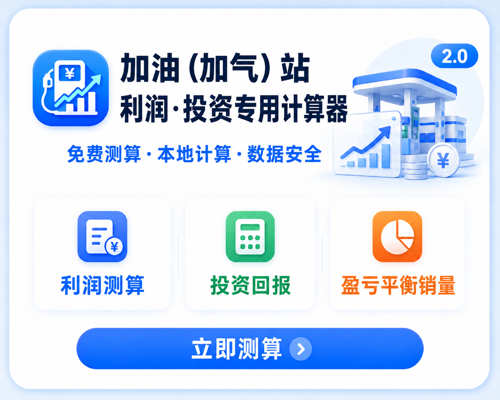
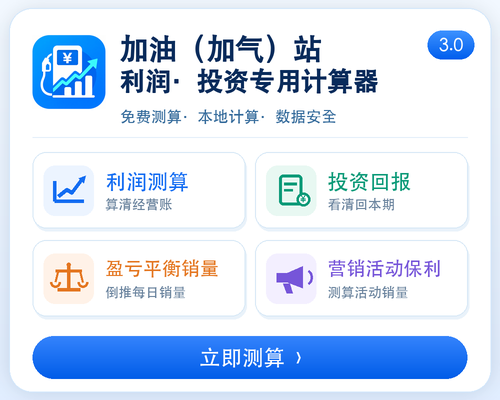
feat: 升级至 3.0.0 四板块并更新分享封面

diff --git a/lib/investment.js b/lib/investment.js
@@ -1,4 +1,4 @@
-const { number } = require('./operating');
+const { number, VERSION } = require('./operating');
 const { npv, irr, payback, loanSchedule } = require('./finance');
 // Keep existing indices stable for saved plans; append the new rental mode.
 const MODES = ['固定租金', '长租短付', '动态租金（业主分红）', '固定管理费', '长租长付'];
@@ -154,7 +154,7 @@ function calculate(input) {
   if (terminalDebt > 0) warnings.push('预测期短于贷款期，期末现金流已计入剩余本金偿还 ' + terminalDebt.toFixed(2) + ' 元。');
   if (form.mode === 2) warnings.push('租金（业主分红）按支付前税前利润的正数计算，已作为动态租金扣除一次；按合同租金可税前列支测算，不作为股东分配再次扣除。');
   if (projectFlows.some((x, i) => i > 0 && x < 0)) warnings.push('部分月份现金净流出，不等于实际资金不足；支付能力还需结合流动资金、留存回款和实际付款安排判断。首次回本后累计现金流仍可能再次转负。');
-  return { type: 'investment', version: '2.0.0', time: new Date().toISOString(), form, modeName: form.selfOwned ? '自有站经营' : MODES[form.mode],
+  return { type: 'investment', version: VERSION, time: new Date().toISOString(), form, modeName: form.selfOwned ? '自有站经营' : MODES[form.mode],
     initial, workingCapital, workingCapitalRecovery: workingCapital, equity, ownShare, ownInitial: equity * ownShare, partnerInitial: equity * (1 - ownShare),
     initialRent: rentals.paid[0], terminalDebt, rows, averages, projectFlows, shareholderFlows,
     project: metrics(projectFlows, Number(form.discountRate)), shareholder: metrics(shareholderFlows, Number(form.discountRate)), warnings };

diff --git a/lib/storage.js b/lib/storage.js
@@ -12,15 +12,16 @@ function migrateBreakEvenDraft() {
   }
 }
 function id() { return Date.now() + '-' + Math.random().toString(36).slice(2, 8); }
-function record(form, wageMode, periodKey, stationName) { return { id: id(), version: '2.0.0', createdAt: new Date().toISOString(), form: operating.cleanForm(form), wageMode, periodKey, stationName: stationName || '' }; }
+function record(form, wageMode, periodKey, stationName) { return { id: id(), version: operating.VERSION, createdAt: new Date().toISOString(), form: operating.cleanForm(form), wageMode, periodKey, stationName: stationName || '' }; }
 function add(key, value, limit) { write(key, [value, ...list(key)].slice(0, limit)); }
 function defaults() { return read(KEYS.defaults, null) || read(KEYS.oldDefaults, null); }
 function source(record, kind) {
   if (!record || !record.form) throw new Error('这条记录缺少经营数据');
   const result = operating.calculate(record.form, record.wageMode || 'people', record.periodKey || 'year');
+  const legacy = record.version !== '2.0.0' && record.version !== operating.VERSION;
   return { id: record.id, kind, name: record.stationName || '未命名站点', createdAt: record.createdAt,
     periodKey: record.periodKey || 'year', annualEbitda: result.annualEbitda,
-    version: '2.0.0', legacy: record.version !== '2.0.0', input: record,
-    legacyInvestment: record.version !== '2.0.0' ? Number(record.form.totalInvestment) || 0 : 0 };
+    version: operating.VERSION, legacy, input: record,
+    legacyInvestment: legacy ? Number(record.form.totalInvestment) || 0 : 0 };
 }
 module.exports = { KEYS, read, list, write, migrateBreakEvenDraft, id, record, add, defaults, source };

diff --git a/lib/report-layout.js b/lib/report-layout.js
@@ -1,4 +1,5 @@
 const brand = require('./brand');
+const { VERSION } = require('./operating');
 const BLUE = '#004b8d', INK = '#17324a', MUTED = '#63798d', RED = '#c93643';
 function wrap(text, measure, width) {
   const lines = []; let line = '';
@@ -119,7 +120,7 @@ function layout(report, measure) {
   y += Math.max(nameHeight + 2, sloganHeight) + 13;
   y += text(brand.welcome, 140, y, 570, 23, MUTED);
   y = Math.max(y, footer + 82) + 27;
-  y += text((report.type === 'break-even' ? '盈亏平衡销量计算器' : '加油（加气）站利润计算器') + ' · v2.0.0', 40, y, 670, 21, MUTED);
+  y += text((report.type === 'break-even' ? '盈亏平衡销量计算器' : '加油（加气）站利润计算器') + ' · v' + (report.version || VERSION), 40, y, 670, 21, MUTED);
   return { width: 750, height: Math.ceil(y + 40), items };
 }
 function dimensions(plan, maxHeight = 16000) {

diff --git a/lib/marketing-report.js b/lib/marketing-report.js
@@ -105,7 +105,7 @@ function paint(ctx, result, form, previewFactor) {
   });
   ctx.fillStyle = MUTED; ctx.font = '18px sans-serif';
   wrap(ctx, '口径：原销量按参与比例参加活动；新增销量按各品种原销量同比增加，参加对应活动。采购单价不变。油品按升、LNG 按公斤分别计算，不直接相加。', 42, 1605, 666, 27);
-  ctx.font = '17px sans-serif'; ctx.fillText('加油（加气）站利润·投资专用计算器 · 本地测算', 42, 1755);
+  ctx.font = '17px sans-serif'; ctx.fillText('加油（加气）站利润·投资专用计算器 · v3.0 · 本地测算', 42, 1755);
   return { width, height };
 }
 module.exports = { chart, paint, amounts, fmt };

diff --git a/lib/ui.js b/lib/ui.js
@@ -18,7 +18,7 @@ function shareImage() {
   try {
     // 分享弹窗在部分开发者工具版本中无法直接读取代码包图片，使用本地副本。
     // 每次覆盖同一文件，保证换图后不会继续分享旧缓存，也不累积文件。
-    const target = wx.env.USER_DATA_PATH + '/share-card-v2.png';
+    const target = wx.env.USER_DATA_PATH + '/share-card-v3.png';
     wx.getFileSystemManager().copyFileSync(source, target);
     return target;
   } catch (e) {

diff --git a/pages/home/home.js b/pages/home/home.js
@@ -1,5 +1,5 @@
 const ui = require('../../lib/ui');
-Page({ data: { version: '2.0.0' }, onLoad: ui.menu,
+Page({ data: { version: '3.0.0' }, onLoad: ui.menu,
   open(e) { wx.navigateTo({ url: '/pages/' + e.currentTarget.dataset.page }); },
   onShareAppMessage: ui.share, onShareTimeline() { return { title: '加油站经营利润与投资回报测算' }; }
 });

diff --git a/lib/operating.js b/lib/operating.js
@@ -1,4 +1,4 @@
-const VERSION = '2.0.0';
+const VERSION = '3.0.0';
 function initialForm() {
   return {
     vol92: 0, vol95: 0, volDiesel: 0, hasLng: false, volLng: 0,

diff --git a/app.js b/app.js
@@ -1,6 +1,6 @@
 App({
   globalData: {
     appName: "加油（加气）站经营与投资测算",
-    appVersion: "2.0.0"
+    appVersion: "3.0.0"
   }
 });

diff --git a/scripts/render_share_card.py b/scripts/render_share_card.py
@@ -1,0 +1,131 @@
+"""Render the mini-program's 5:4 WeChat share card with exact Chinese labels.
+
+Requires Pillow. Run from any directory: python3 scripts/render_share_card.py
+"""
+
+from pathlib import Path
+from PIL import Image, ImageDraw, ImageFilter, ImageFont
+
+
+ROOT = Path(__file__).resolve().parents[1]
+OUT = ROOT / "images/share-card-5x4.png"
+LOGO = ROOT / "images/miniprogram-profit-icon-512.png"
+FONT = "/System/Library/Fonts/STHeiti Medium.ttc"
+SIZE = (1000, 800)
+
+
+def font(size):
+    return ImageFont.truetype(FONT, size)
+
+
+def centered(draw, box, label, face, fill):
+    left, top, right, bottom = box
+    bounds = draw.textbbox((0, 0), label, font=face)
+    width = bounds[2] - bounds[0]
+    height = bounds[3] - bounds[1]
+    draw.text(((left + right - width) / 2 - bounds[0],
+               (top + bottom - height) / 2 - bounds[1]), label,
+              font=face, fill=fill)
+
+
+def rounded_gradient(image, box, top_color, bottom_color, radius):
+    left, top, right, bottom = box
+    width, height = right - left, bottom - top
+    layer = Image.new("RGB", (width, height))
+    pixels = layer.load()
+    for y in range(height):
+        weight = y / max(height - 1, 1)
+        color = tuple(round(a * (1 - weight) + b * weight)
+                      for a, b in zip(top_color, bottom_color))
+        for x in range(width):
+            pixels[x, y] = color
+    mask = Image.new("L", (width, height))
+    ImageDraw.Draw(mask).rounded_rectangle((0, 0, width - 1, height - 1), radius, fill=255)
+    image.paste(layer, (left, top), mask)
+
+
+def profit_icon(draw, x, y, color):
+    draw.line([(x + 18, y + 68), (x + 18, y + 28)], fill=color, width=7)
+    draw.line([(x + 18, y + 68), (x + 76, y + 68)], fill=color, width=7)
+    draw.line([(x + 26, y + 58), (x + 42, y + 45), (x + 53, y + 51), (x + 74, y + 23)], fill=color, width=8, joint="curve")
+    draw.polygon([(x + 66, y + 22), (x + 80, y + 17), (x + 76, y + 32)], fill=color)
+
+
+def investment_icon(draw, x, y, color):
+    draw.rounded_rectangle((x + 22, y + 15, x + 68, y + 76), 8, outline=color, width=6)
+    draw.line((x + 32, y + 33, x + 57, y + 33), fill=color, width=6)
+    draw.line((x + 32, y + 46, x + 49, y + 46), fill=color, width=5)
+    draw.ellipse((x + 57, y + 51, x + 84, y + 78), fill="white", outline=color, width=5)
+    centered(draw, (x + 58, y + 52, x + 83, y + 78), "¥", font(23), color)
+
+
+def balance_icon(draw, x, y, color):
+    draw.line((x + 46, y + 20, x + 46, y + 68), fill=color, width=7)
+    draw.line((x + 24, y + 69, x + 69, y + 69), fill=color, width=7)
+    draw.line((x + 20, y + 31, x + 72, y + 31), fill=color, width=6)
+    draw.ellipse((x + 42, y + 15, x + 50, y + 23), fill=color)
+    draw.line((x + 25, y + 31, x + 19, y + 54), fill=color, width=4)
+    draw.line((x + 68, y + 31, x + 74, y + 54), fill=color, width=4)
+    draw.arc((x + 9, y + 43, x + 30, y + 65), 0, 180, fill=color, width=5)
+    draw.arc((x + 64, y + 43, x + 85, y + 65), 0, 180, fill=color, width=5)
+
+
+def marketing_icon(draw, x, y, color):
+    draw.polygon([(x + 17, y + 36), (x + 37, y + 36), (x + 69, y + 22),
+                  (x + 69, y + 66), (x + 37, y + 54), (x + 17, y + 54)],
+                 fill=color)
+    draw.polygon([(x + 30, y + 57), (x + 43, y + 57), (x + 49, y + 76),
+                  (x + 37, y + 76)], fill=color)
+    draw.arc((x + 62, y + 28, x + 89, y + 61), -62, 62, fill=color, width=5)
+
+
+def render():
+    background = Image.new("RGB", SIZE)
+    pixels = background.load()
+    for y in range(SIZE[1]):
+        for x in range(SIZE[0]):
+            pixels[x, y] = (max(223, 242 - y // 45), max(235, 248 - y // 72), 255)
+
+    shadow = Image.new("RGBA", SIZE)
+    ImageDraw.Draw(shadow).rounded_rectangle((22, 24, 978, 780), 45, fill=(35, 112, 199, 45))
+    background = Image.alpha_composite(background.convert("RGBA"), shadow.filter(ImageFilter.GaussianBlur(18)))
+    draw = ImageDraw.Draw(background)
+    draw.rounded_rectangle((18, 16, 982, 784), 46, fill="white")
+    draw.rounded_rectangle((18, 16, 982, 784), 46, outline="#d3e7fb", width=2)
+
+    # Existing mini-program logo, with its original blue square preserved.
+    logo = Image.open(LOGO).convert("RGB").crop((16, 16, 496, 496)).resize((148, 148), Image.Resampling.LANCZOS)
+    background.paste(logo, (64, 70))
+    draw = ImageDraw.Draw(background)
+    navy = "#092b5b"
+    draw.text((238, 68), "加油（加气）站", font=font(58), fill=navy, stroke_width=1)
+    draw.text((238, 135), "利润·投资专用计算器", font=font(52), fill=navy, stroke_width=1)
+    draw.text((240, 217), "免费测算·本地计算·数据安全", font=font(31), fill="#32699a")
+    rounded_gradient(background, (855, 61, 949, 119), (60, 145, 255), (0, 94, 237), 29)
+    draw = ImageDraw.Draw(background)
+    centered(draw, (855, 61, 949, 119), "3.0", font(35), "white")
+    draw.line((65, 274, 935, 274), fill="#e3eef9", width=2)
+
+    cards = [
+        (65, 304, "利润测算", "算清经营账", "#126cf2", "#ecf4ff", profit_icon),
+        (510, 304, "投资回报", "看清回本期", "#0b9a78", "#e8f8f2", investment_icon),
+        (65, 480, "盈亏平衡销量", "倒推每日销量", "#e47620", "#fff2e8", balance_icon),
+        (510, 480, "营销活动保利", "测算活动销量", "#7655d9", "#f3efff", marketing_icon),
+    ]
+    for x, y, title, caption, color, pale, icon in cards:
+        draw.rounded_rectangle((x + 3, y + 6, x + 428, y + 158), 27, fill="#e9f2fa")
+        draw.rounded_rectangle((x, y, x + 425, y + 152), 27, fill="white", outline="#d7e8f6", width=2)
+        draw.rounded_rectangle((x + 22, y + 27, x + 122, y + 127), 23, fill=pale)
+        icon(draw, x + 26, y + 30, color)
+        draw.text((x + 145, y + 37), title, font=font(38 if len(title) > 4 else 42), fill=color)
+        draw.text((x + 145, y + 90), caption, font=font(27), fill="#66809b")
+
+    rounded_gradient(background, (65, 672, 935, 758), (52, 131, 252), (0, 92, 232), 43)
+    draw = ImageDraw.Draw(background)
+    centered(draw, (65, 672, 935, 758), "立即测算  ›", font(43), "white")
+    background.convert("RGB").resize((500, 400), Image.Resampling.LANCZOS).save(OUT, optimize=True)
+    print(OUT)
+
+
+if __name__ == "__main__":
+    render()

diff --git a/README.md b/README.md
@@ -1,21 +1,21 @@
-# 加油（加气）站利润计算器小程序版
+# 加油（加气）站利润·投资专用计算器 3.0
 
 ## 项目备注
 
-投资回报与盈亏平衡销量计算器均支持勾选“自有站经营”：不计租金、业主动态租金或合作管理费，保留资产折旧、流动资金和贷款计算。取消勾选会恢复此前的合同填写；草稿、投资方案和两版报告同步记录该选项。资产金额仍按本次期初投入计入，适用于按购站或建设投入测算；尚未增加已有资产与新增投入分离、折旧年限超出预测期、期末资产价值回收的处理。
-
-这是一个面向加油站、加气站经营者的本地测算小程序 2.0 独立版本。项目把日常经营、营销活动保利、项目投资和盈亏平衡销量拆成四个入口，让不同决策各按自己的口径测算。
+这是一个面向加油站、加气站经营者的本地测算小程序。3.0 将营销活动保利升级为第四个独立板块；首页依次是日常利润、投资回报、盈亏平衡销量、营销活动保利。不同决策按各自口径测算。
 
 - **利润计算器**：根据销量、售价、采购价与日常费用，测算租金前经营 EBITDA，先判断站点的基础经营能力。
-- **营销活动保利计算器**：以活动前经营利润为基准，测算降价后每天至少多卖多少、涨价后最多可少卖多少；可按 92、95、柴油及 LNG 分别设置活动参与比例，查看保利交叉图并分享图片报告。
 - **投资回报计算器**：在经营基础上加入租金、固定资产、流动资金、贷款和合作条件，查看年度净利润、年度净现金回笼、NPV、回收期与 IRR。
 - **盈亏平衡销量计算器**：分别倒推财务盈亏平衡销量和投资回报平衡销量。前者以经营期年均净利润为 0 为目标，包含折旧；后者以我方 NPV 为 0 为目标，考虑投入、收付款时点和期望年回报率。
+- **营销活动保利计算器**：以活动前经营利润为基准，测算降价后每天至少多卖多少、涨价后最多可少卖多少；可按 92、95、柴油及 LNG 分别设置活动参与比例，查看保利交叉图并分享图片报告。
 
-项目按“先测算、再比较、最后决策”的顺序使用更合适：利润计算器用于估算经营基础；营销活动保利计算器用于高频价格及促销决策；投资回报计算器用于比较租赁和融资方案；盈亏平衡销量计算器用于检验销量目标。油品结果以升/日、LNG 以公斤/日分别展示，不把不同物理单位直接相加。
+利润计算器用于估算经营基础；投资回报计算器用于比较租赁和融资方案；盈亏平衡销量计算器用于检验销量目标；营销活动保利计算器用于高频价格及促销决策。油品结果以升/日、LNG 以公斤/日分别展示，不把不同物理单位直接相加。
+
+投资回报与盈亏平衡销量计算器均支持勾选“自有站经营”：不计租金、业主动态租金或合作管理费，保留资产折旧、流动资金和贷款计算。取消勾选会恢复此前的合同填写；草稿、投资方案和两版报告同步记录该选项。资产金额仍按本次期初投入计入，适用于按购站或建设投入测算；尚未增加已有资产与新增投入分离、折旧年限超出预测期、期末资产价值回收的处理。
 
 所有填写数据和方案默认保存在当前微信设备本地；只有用户主动生成并分享的报告图片会离开设备。项目提供的是经营比较和项目初筛工具，不能替代财务报表、税务申报、合同审查、资金计划或正式投资决策。租金、税费、资产投入和融资条件应以合同、票据及实际资金安排为准。
 
-`v2.0.0` 是本仓库的首个独立版本，包含 2.0 的完整源码、测试与测算口径说明；旧版 1.4.1 保留在单独仓库中，不与本版本混合维护。
+`v2.0.0` 是本仓库的首个独立版本；`v3.0.0` 是增加营销活动保利板块的重大更新。3.0 沿用 2.0 的本机草稿和历史数据键，旧经营记录继续可读，不会因为版本号变化被当成 1.x 旧记录。转发封面已更新为 3.0 四板块图片，源文件可用 `scripts/render_share_card.py` 重绘。1.4.1 保留在单独仓库中。
 
 流动资金：新方案默认 500000 元，可修改；计入期初投入并在预测期末全额收回，不折旧、不计费用或利润，首期预付租金另计。我方回收流动资金，融资不影响项目无融资口径回报。旧草稿/方案缺少该字段时保留原口径 0 元，不修改原存档。单月现金净流出不等于账户资金不足，本模型不模拟资金留存、实际账户余额或分红安排。IRR 仍保留多次变号的保守判定。
 
@@ -23,7 +23,7 @@
 
 租赁模式更新：原“税前利润分成”改称“动态租金（业主分红）”，在租金费用及报告中列示，只扣一次；取消双方出资合作，保留固定管理费。旧双方出资方案须重新选择方式，原始数据保留，不自动转换租金比例；历史报告标明旧口径。
 
-当前本地版本：`2.0.0`。旧版公式修复版独立保存在相邻目录 `wechat-miniprogram-1.4.1/`。
+当前源码版本：`3.0.0`。旧版公式修复版独立保存在相邻目录 `wechat-miniprogram-1.4.1/`。
 
 盈亏平衡销量入口已从投资回报页移至首页。独立草稿会自动保存，首次使用会复制原内嵌倒推草稿；之后编辑两个计算器互不覆盖。年度修正只保留一份共用模板，须显式填入。
 
@@ -33,9 +33,9 @@
 
 盈亏平衡销量计算后可查看报告，生成简要版或完整版分享图片，支持预览、保存相册和微信图片分享。报告包含两类销量、油气配比、毛利、单位费用、财务条件与口径说明；完整版另列资产折旧和逐年修正。结果使用计算时快照，修改输入后须重新计算。
 
-## 2.0.0 使用方式
+## 3.0 使用方式
 
-首页提供四个并列入口：“利润计算器”“营销活动保利计算器”“投资回报计算器”“盈亏平衡销量计算器”。利润只测算租金前经营 EBITDA（息税折旧摊销前利润）；年度净利润、租赁、资产、合作、贷款及投资回报在投资页计算。营销活动页未带入经营数据时，售价按参考采购价加所填毛利估算，税费及支付手续费按默认经营参数计算。
+首页提供四个并列入口：“利润计算器”“投资回报计算器”“盈亏平衡销量计算器”“营销活动保利计算器”。利润只测算租金前经营 EBITDA（息税折旧摊销前利润）；年度净利润、租赁、资产、合作、贷款及投资回报在投资页计算。营销活动页未带入经营数据时，售价按参考采购价加所填毛利估算，税费及支付手续费按默认经营参数计算。
 
 支持选择最近 5 条或指定历史报告，手动填写经营基础，按年修订 EBITDA，并生成含中文说明的完整图片报告。预测默认 10 年、折现率默认 7%。全部选择项直接展开，报告改为单张完整长图，上下查看、整张保存或分享。
 
@@ -47,11 +47,11 @@
 
 利润页价格统一按含税、带票填写。旧不含税报价恢复时自动换算，不修改原存档；报告以“经营收支概览”展示销售额（含税）、采购成本（含税）、日常经营费用、经营税费、租金前经营收益，隐藏销项、进项及净额收支等过程值。房产税和土地使用税归入经营税费，不在日常费用里重复展示。内部计算不变、不重复扣增值税，经营收益不等同于实际现金净流入。测算假设油气采购进项可抵扣，未模拟库存、期初留抵、抵扣时点及其他经营费用进项税，不等于实际税务申报。
 
-开发范围：仅 2.0 大版本。用户已确认 1.4.1 提交使用；未再次明确要求之前，不修改、不重新打包、不上传覆盖 1.4.1。
+开发范围：本仓库维护 3.0 源码；1.4.1 保留在独立仓库，不在此处覆盖。
 
 图片分享分为两个独立入口：简要版展示核心指标、经营概览/投资条件，完整版保留所有明细与逐年表格；两版的测算口径和术语说明共用同一套精简文案，详细假设在独立说明页查阅。两种图片分别生成、预览、保存、分享，不互相覆盖；均保留双 Logo、公众号 Slogan 和欢迎词。原生微信分享及相册权限需真机验收。
 
-以下为历史版本说明；与 2.0.0 不一致的描述以本节及 CHANGELOG 为准。2.0.0 尚未上传或发布。真实手机的长图保存、相册权限和微信分享仍待验收。
+以下为历史版本说明；与 3.0 不一致的描述以本节及 CHANGELOG 为准。源码上传 GitHub 不等于上传或发布微信小程序，真实手机的长图保存、相册权限和微信分享仍待验收。
 
 ## 1.4.0 版本备注
 

diff --git a/CHANGELOG.md b/CHANGELOG.md
@@ -1,13 +1,16 @@
-# 2.0.0 · 经营与投资分层
+# 3.0.0 · 四个独立计算板块
 
-本地开发版本。未上传、审核或发布到微信。
+2026-10-17 源码版本更新。尚未上传、审核或发布到微信。
 
-### 营销活动保利计算器（2026-10-17）
+### 营销活动保利计算器与版本升级（2026-10-17）
 
-- 首页新增独立入口，填写分油气品种的日均销量、含税单位毛利、降价或涨价幅度、原销量参与比例、活动天数及一次性物料费用。
+- 首页第四个板块为营销活动保利计算器；原三个板块保持利润、投资回报、盈亏平衡销量的顺序。内部版本号升级为 3.0.0，与 2.0 区分。
+- 填写分油气品种的日均销量、含税单位毛利、降价或涨价幅度、原销量参与比例、活动天数及一次性物料费用。
 - 活动前后复用经营利润计算器的增值税、附加税、印花税和支付手续费口径；采购单价保持不变。新增销量按原品种同比增加，并默认参加对应活动。
 - LNG 按公斤和 9% 增值税单独计算，不与油品升数相加；保利交叉图使用红色原利润线、蓝色活动利润线和可拖动的预计销量点。
 - 草稿独立保存在本机；可带入最近一次经营测算。报告生成包含交叉图的一张 PNG 图片，支持预览、保存相册及微信图片分享。
+- 保持原有本机数据存储键；2.0 经营记录仍按新口径读取，不误判为 1.x 历史记录。
+- 转发封面更新为 3.0 四板块版，保留原小程序 Logo、蓝白风格和 5:4 图片尺寸；分享副本改为 v3 文件名以避开旧图缓存。
 
 ### 自有站经营勾选项（2026-09-27）
 
@@ -15,6 +18,8 @@
 - 资产投入、折旧、流动资金和贷款继续计算，资金预览排除预付租金。原合同输入保留，取消勾选即可恢复；草稿和投资方案可保存该选项。
 - 两类计算器的完整/简要报告标明“自有站经营”和年度租金 0，说明资产仍计期初投入。旧方案缺少该字段时保持原计算。
 - 89 项测试通过，包含隐藏合同费用排除、预付资金预览、融资、折旧、倒推、页面切换与存储恢复及报告口径；已有资产存量建模不在本次范围。
+
+## 2.0.0 · 经营与投资分层
 
 ### 财务盈亏平衡名称调整（2026-09-25）
 

diff --git a/投资指标口径说明.md b/投资指标口径说明.md
@@ -1,6 +1,6 @@
 # 投资指标口径与对应关系
 
-更新：2026-09-25。适用于本地 2.0.0；以下是本工具的测算口径。
+更新：2026-09-25。适用于 2.0 与 3.0 的投资回报计算；以下是本工具的测算口径。
 
 ## 1. 报告分别回答什么
 
